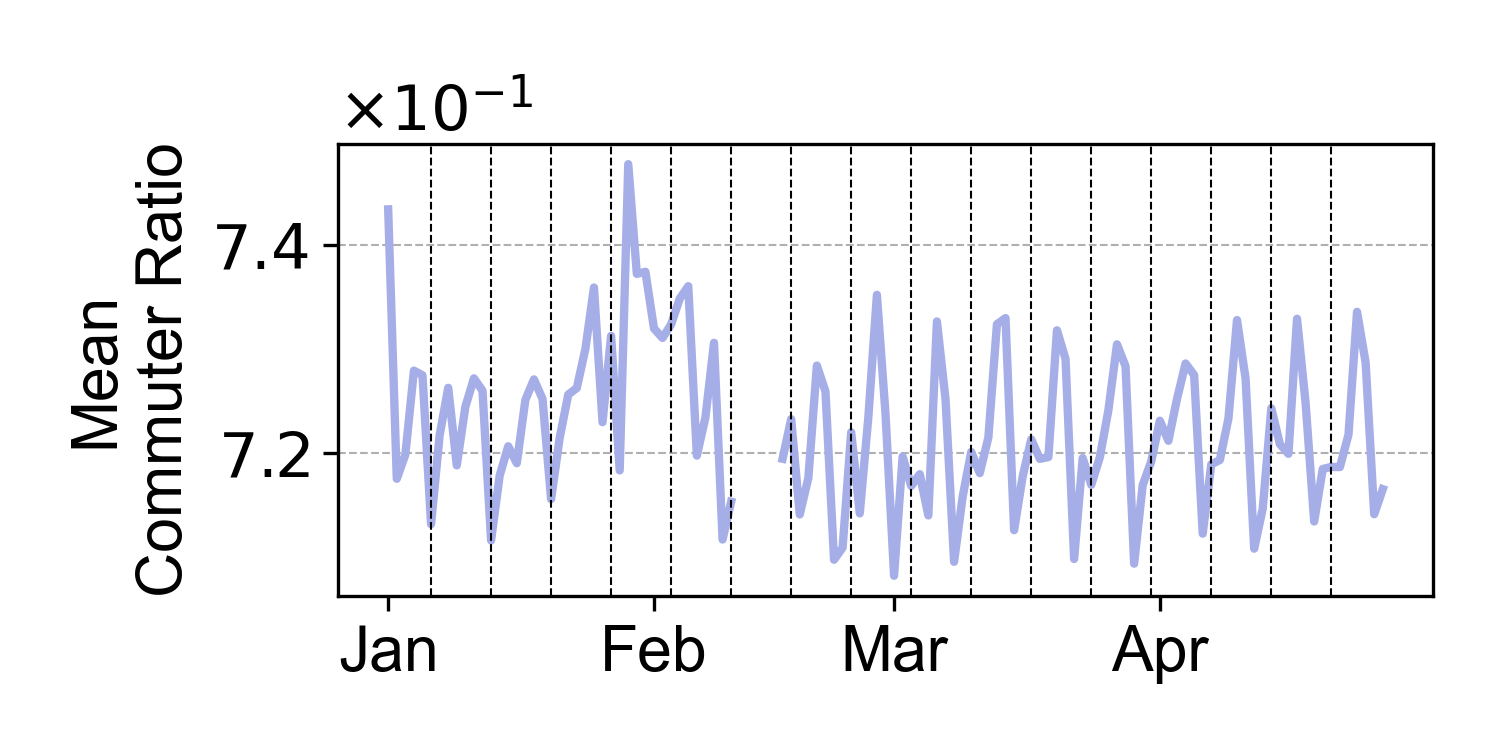
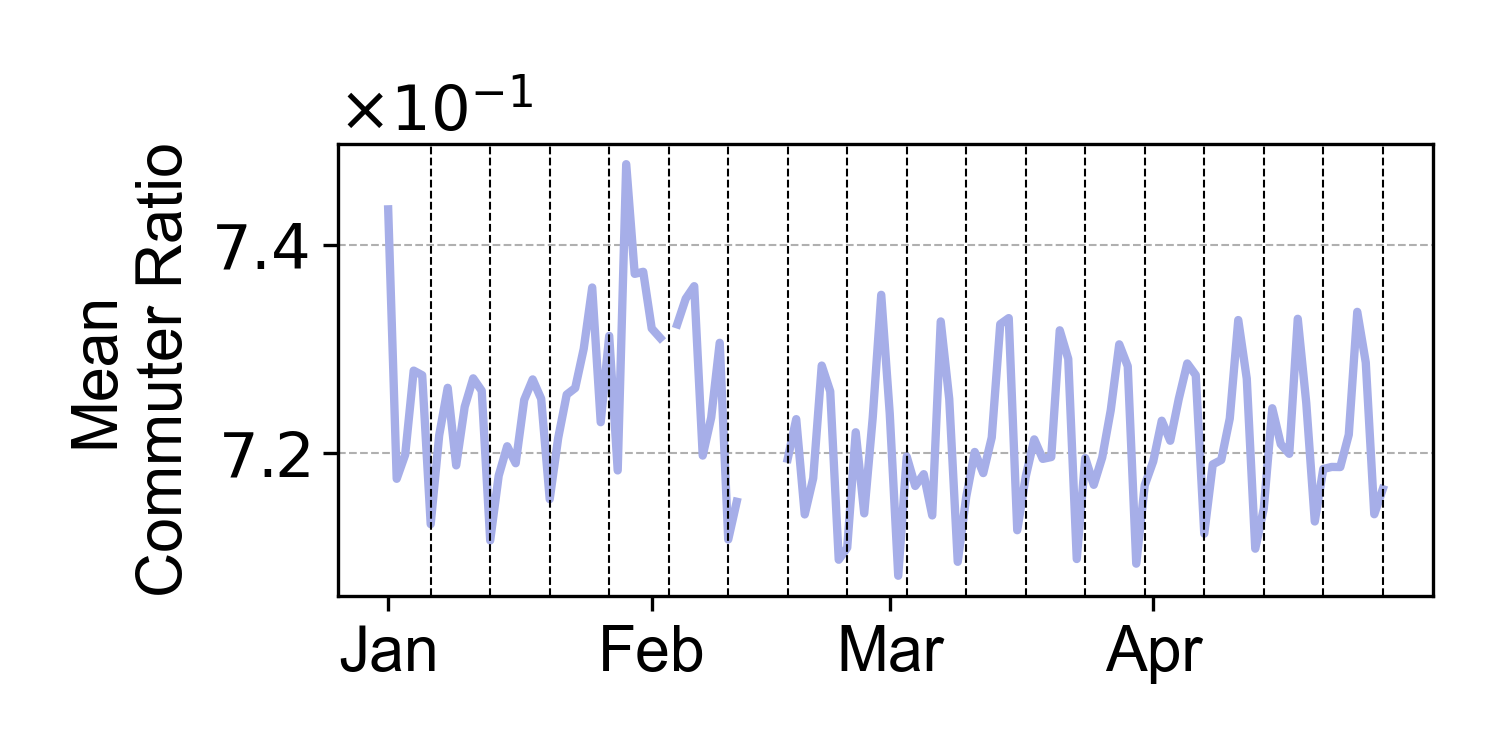
network visualization

diff --git a/visualization/daily_network_property.py b/visualization/daily_network_property.py
@@ -20,7 +20,12 @@ pkl_files = [f for f in os.listdir(directory) if f.endswith('.pkl')]
 pkl_files.sort()
 
 for filename in pkl_files:
-    # '2014-02-12.pkl', '2014-02-13.pkl', '2014-02-14.pkl', '2014-02-15.pkl', '2014-02-16.pkl': dates with incomplete data
+    # '2014-02-03.pkl", '2014-02-12.pkl', '2014-02-13.pkl', '2014-02-14.pkl', '2014-02-15.pkl', '2014-02-16.pkl': dates with incomplete data
+    if filename == '2014-02-04.pkl':
+        edge_counts.append(None)
+        edge_commuter_ratios.append(None)
+        edge_distance.append(None)
+        flow.append(None)
     if filename == '2014-02-17.pkl':
         for _ in range(5):
             edge_counts.append(None)
